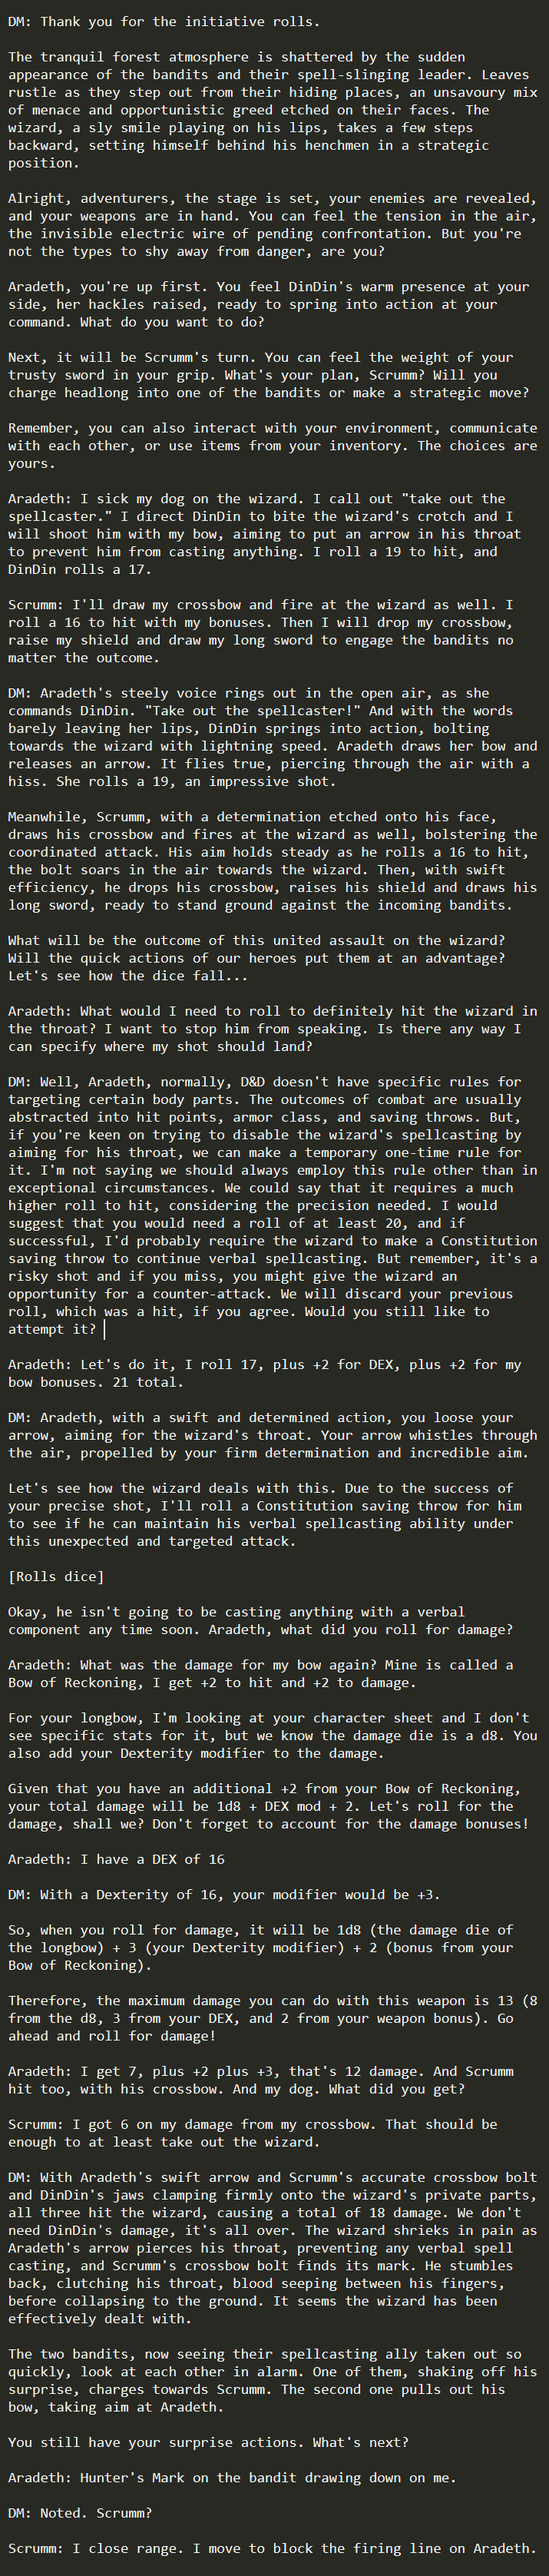
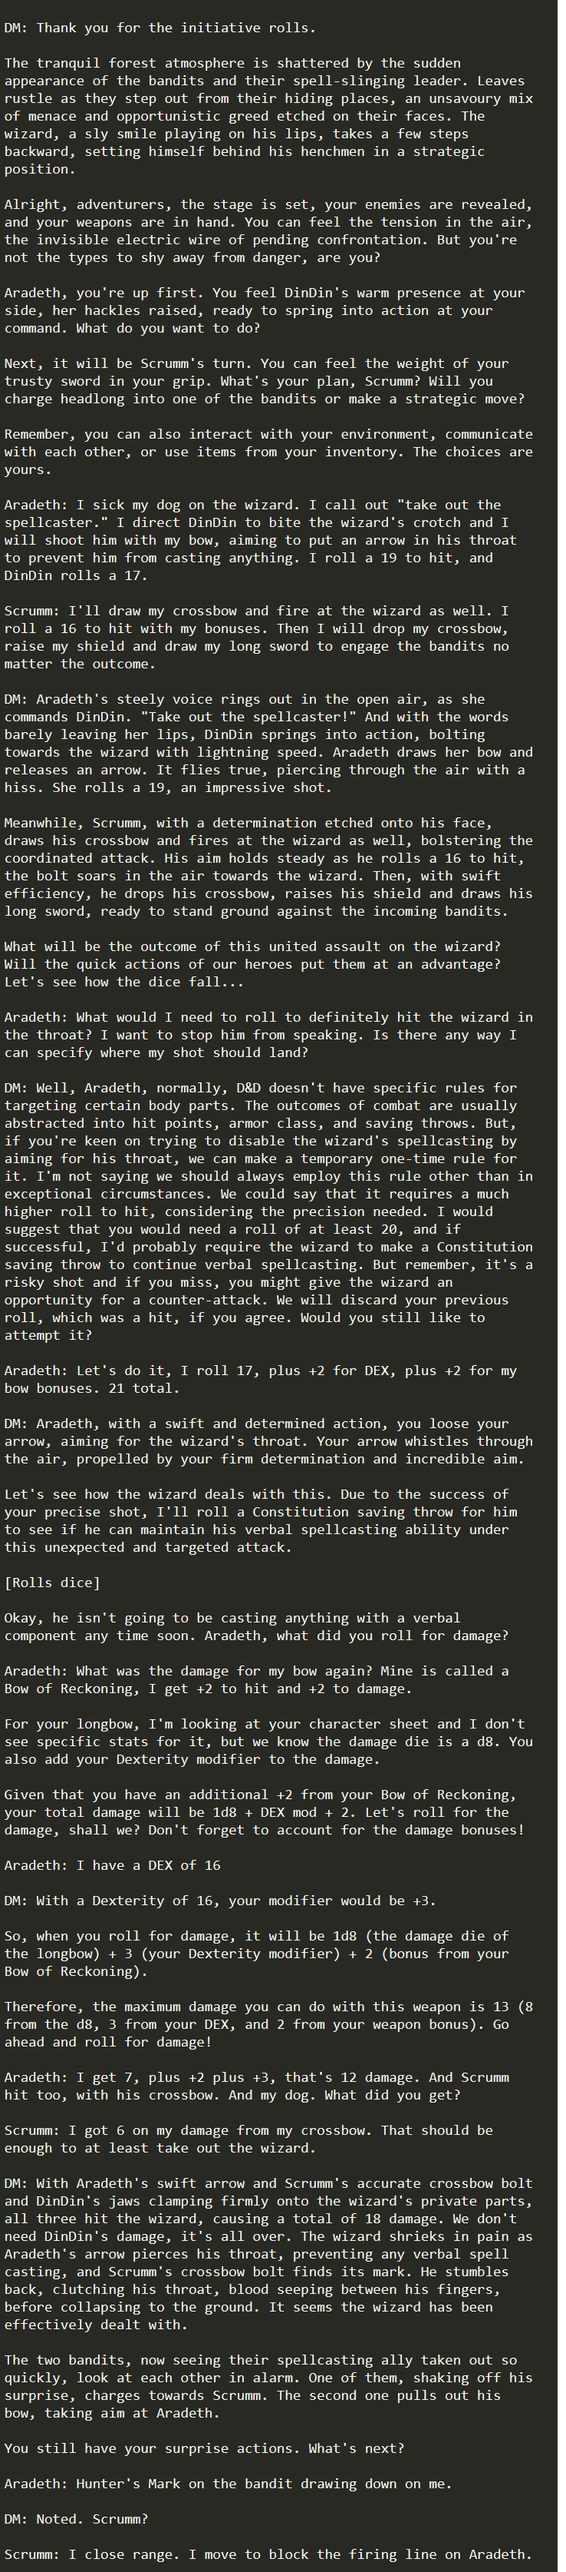
Reindex the screenshots

Changed region(s): [[0.0, 0.0, 1.0, 1.0], [0.8923, 0.963, 0.9231, 0.994], [0.8615, 0.994, 0.8923, 1.0]]

diff --git a/readme.md b/readme.md
@@ -5,7 +5,7 @@ Banderschnappen is an interactive Dungeons & Dragons 5e RPG scenario generator p
 Note that this code does not currently compile. It is still in development. You're just getting to look inside the sausage
 factory.
 
-![Screenshot of Banderschnappen](./screenshot.png)
+![Screenshot of Banderschnappen](./screenshot-01.png)
 
 ## Overview
 
